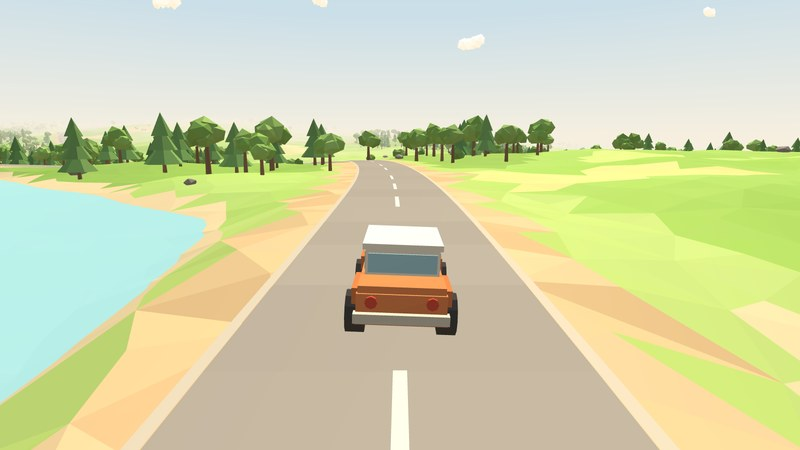
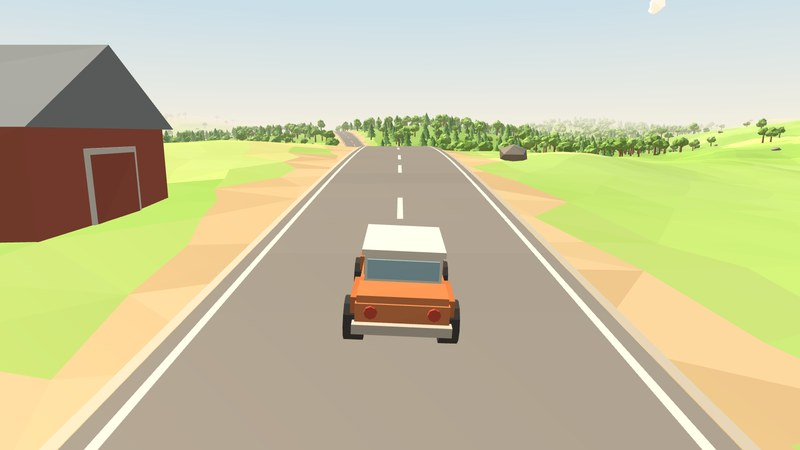
Driving sim: no lakes, smooth steering, gentle roads
- Lakes removed.
- Steering asks for a turn rate the car eases into (at most ~40 deg/s,
  less at speed), slower wheel and throttle response, top speed about
  108 km/h, softer chase camera.
- Roads are whole lattice lines with shared Catmull-Rom tangents at the
  junctions: no kinks, no dead-end corners; tightest bend about 150 m.

diff --git a/playground/drive.html b/playground/drive.html
@@ -52,7 +52,7 @@
   <button class="close" id="closePanel" aria-label="Close settings" title="Close (H)">✕</button>
   <a class="back" href="../index.html">← Home</a>
   <h1>Driving simulator</h1>
-  <p class="sub">An endless countryside, generated as you drive: rolling hills, fields, forests, villages and lakes, all grown from one random seed. The roads never end, and the same place always looks the same when you come back.</p>
+  <p class="sub">An endless countryside, generated as you drive: rolling hills, fields, forests and villages, all grown from one random seed. The roads never end, and the same place always looks the same when you come back.</p>
 
   <label>camera</label>
   <div class="row">
@@ -118,11 +118,11 @@ function hash(i, j, k) {
 function rng(a, b, c) { let s = (Math.floor(hash(a, b, c) * 4294967296) >>> 0) || 1; return () => { s = (s + 0x6d2b79f5) >>> 0; let t = s; t = Math.imul(t ^ (t >>> 15), t | 1); t ^= t + Math.imul(t ^ (t >>> 7), t | 61); return ((t ^ (t >>> 14)) >>> 0) / 4294967296; }; }
 
 // ===================================================================
-//  landscape: smooth hills the roads follow, lakes in the hollows, a little detail on top
+//  landscape: smooth hills the roads follow, a little detail on top (no lakes: Alain asked for dry land)
 // ===================================================================
 const fbm = (x, z) => N1(x, z) + 0.5 * N1(x * 2.03 + 17, z * 2.03 - 9) + 0.25 * N1(x * 4.1 - 31, z * 4.1 + 5);
 const hillH = (x, z) => 24 * fbm(x / 1100, z / 1100) + 6 * N1(x / 300 + 7.3, z / 300 - 2.1);   // what the roads ride on
-const lakeK = (x, z) => smooth(0.38, 0.7, N1(x / 760 + 41.7, z / 760 - 13.2));                    // 0 = dry, 1 = deep lake
+const lakeK = (x, z) => 0;   // lakes are switched off; everything that tests for water stays, and never finds any
 const forestK = (x, z) => N1(x / 420 - 70.1, z / 420 + 23.9) + 0.35 * N1(x / 90, z / 90);
 const detailH = (x, z) => 1.1 * N1(x / 38 + 3.1, z / 38 + 8.7);
 const roadSurf = (x, z) => hillH(x, z) + 0.35;
@@ -132,17 +132,22 @@ const rawH = (x, z) => hillH(x, z) - 11 * lakeK(x, z) + detailH(x, z) * (1 - lak
 // ===================================================================
 //  road network: a jittered lattice of junctions joined by gently curving roads
 // ===================================================================
-// Junction (i, j) sits near (i*S, j*S). Every fifth row and column is a wider main road that always exists;
-// the side roads in between exist with a fixed probability, and every road out of a village exists, so
-// the network is endless and connected in practice. Each road is a cubic Bezier sampled every ~5 m.
-const S = 330, JIT = 85;
-const isVillage = (i, j) => hash(i, j, 4) < 0.2;
+// Junction (i, j) sits near (i*S, j*S). A road is a whole row or column of the lattice: every fifth one is
+// a wider main road, and about half of the others exist too, all the way through, so a road never just
+// ends in a sharp corner. Each segment is a cubic Bezier whose end tangents are shared with its neighbours
+// (Catmull-Rom style), so a road runs through its junctions without a kink and only ever bends gently.
+const S = 330, JIT = 60;
+const rowRoad = (j) => j % 5 === 0 || hash(0, j, 10) < 0.45;   // an east-west road along row j
+const colRoad = (i) => i % 5 === 0 || hash(i, 0, 11) < 0.45;   // a north-south road along column i
+const isVillage = (i, j) => hash(i, j, 4) < 0.2 && (rowRoad(j) || colRoad(i));
 const node = (i, j) => [i * S + (hash(i, j, 1) - 0.5) * 2 * JIT, j * S + (hash(i, j, 2) - 0.5) * 2 * JIT];
 function edgeExists(i, j, dir) {           // dir 0: (i,j)->(i+1,j), dir 1: (i,j)->(i,j+1)
-  if (dir === 0 ? j % 5 === 0 : i % 5 === 0) return true;
-  const [ni, nj] = dir === 0 ? [i + 1, j] : [i, j + 1];
-  if (isVillage(i, j) || isVillage(ni, nj)) return true;
-  return hash(i, j, 10 + dir) < 0.66;
+  return dir === 0 ? rowRoad(j) : colRoad(i);
+}
+// the road's direction through junction (i, j): half the chord between its two neighbours
+function tangentAt(i, j, dir) {
+  const p = dir === 0 ? node(i - 1, j) : node(i, j - 1), q = dir === 0 ? node(i + 1, j) : node(i, j + 1);
+  return [(q[0] - p[0]) / 2, (q[1] - p[1]) / 2];
 }
 const isMain = (i, j, dir) => (dir === 0 ? j % 5 === 0 : i % 5 === 0);
 const edgeCache = new Map();
@@ -152,10 +157,9 @@ function getEdge(i, j, dir) {
   if (e !== undefined) return e;
   if (!edgeExists(i, j, dir)) { edgeCache.set(key, null); return null; }
   const a = node(i, j), b = dir === 0 ? node(i + 1, j) : node(i, j + 1);
-  const dx = b[0] - a[0], dz = b[1] - a[1], L = Math.hypot(dx, dz), ux = dx / L, uz = dz / L, px = -uz, pz = ux;
-  const main = isMain(i, j, dir), bend = main ? 35 : 70;
-  const b1 = (hash(i, j, 20 + dir) - 0.5) * 2 * bend, b2 = (hash(i, j, 22 + dir) - 0.5) * 2 * bend;
-  const c1 = [a[0] + ux * L / 3 + px * b1, a[1] + uz * L / 3 + pz * b1], c2 = [b[0] - ux * L / 3 + px * b2, b[1] - uz * L / 3 + pz * b2];
+  const L = Math.hypot(b[0] - a[0], b[1] - a[1]), main = isMain(i, j, dir);
+  const ta = tangentAt(i, j, dir), tb = dir === 0 ? tangentAt(i + 1, j, dir) : tangentAt(i, j + 1, dir);
+  const c1 = [a[0] + ta[0] / 3, a[1] + ta[1] / 3], c2 = [b[0] - tb[0] / 3, b[1] - tb[1] / 3];
   const n = Math.max(8, Math.ceil(L / 5)), pts = [];
   for (let k = 0; k <= n; k++) {
     const t = k / n, u = 1 - t;
@@ -621,7 +625,7 @@ const carMesh = (() => {
 
 // The whole car state in one small plain object, changed only in drive().
 // Multiplayer will later broadcast exactly this (Azure Web PubSub, or the Supabase project's realtime channels).
-const car = { x: 0, y: 0, z: 0, heading: 0, speed: 0, vx: 0, vz: 0, steer: 0, pitch: 0, roll: 0, onRoad: true, dist: 0 };
+const car = { x: 0, y: 0, z: 0, heading: 0, speed: 0, vx: 0, vz: 0, steer: 0, yaw: 0, pitch: 0, roll: 0, onRoad: true, dist: 0 };
 const input = { thr: 0, brk: 0, steer: 0, hb: false };
 
 function placeOnRoad(x, z) {
@@ -635,7 +639,7 @@ function placeOnRoad(x, z) {
   car.x = best.p[0]; car.z = best.p[1];
   let h = Math.atan2(best.q[0] - best.p[0], best.q[1] - best.p[1]);
   if (Math.cos(h - car.heading) < 0 && Math.abs(car.speed) > 1) h += Math.PI;   // keep roughly the way we were going
-  car.heading = h; car.speed = 0; car.vx = car.vz = 0; car.steer = 0;
+  car.heading = h; car.speed = 0; car.vx = car.vz = 0; car.steer = 0; car.yaw = 0;
   car.y = roadSurf(car.x, car.z);
 }
 function startPos() {
@@ -661,7 +665,7 @@ function drive(dt) {
   const fx = Math.sin(car.heading), fz = Math.cos(car.heading);
   let vf = car.vx * fx + car.vz * fz;
   const here = heightAt(car.x, car.z), onRoad = here.d < 0.4;
-  const vmax = onRoad ? 47 : 19, acc = onRoad ? 8 : 5.2;
+  const vmax = onRoad ? 30 : 13, acc = onRoad ? 5.2 : 3.8;   // about 108 km/h on the road
   const v0 = vf;
   if (input.thr > 0) { if (vf < -0.5) vf += 15 * input.thr * dt; else vf += acc * input.thr * Math.max(0, 1 - vf / vmax) * dt; }
   if (input.brk > 0) { if (vf > 0.5) vf -= 17 * input.brk * dt; else vf -= 4.5 * input.brk * Math.max(0, 1 + vf / 9) * dt; }
@@ -670,10 +674,13 @@ function drive(dt) {
   vf -= Math.sign(vf) * Math.min(Math.abs(vf), drag * dt);
   vf -= 9.81 * Math.sin(car.pitch) * dt;                       // hills pull you back, or along
   car.vx += fx * (vf - v0); car.vz += fz * (vf - v0);
-  // steering: less lock at speed, a bit more yaw on the handbrake
-  const lock = 0.62 / (1 + Math.abs(vf) / 13);
-  car.steer += (input.steer * lock - car.steer) * Math.min(1, dt * 7);
-  car.heading += (vf / 2.65) * Math.tan(car.steer) * (input.hb ? 1.5 : 1) * dt;
+  // steering: the wheel asks for a turn rate, never more than about 40 degrees a second, and less at speed
+  // (sideways pull capped near 0.65 g), and the car eases into it, so a turn rolls in instead of snapping
+  const vabs = Math.abs(vf), dirv = vf < 0 ? -1 : 1;
+  const maxYaw = Math.min(0.7, vabs / 5, 6.5 / Math.max(vabs, 1)) * (input.hb ? 1.5 : 1);
+  car.yaw += (input.steer * maxYaw * (vabs < 0.3 ? 0 : dirv) - car.yaw) * Math.min(1, dt * 2.6);
+  car.heading += car.yaw * dt;
+  car.steer = clamp(Math.atan((car.yaw * 2.65) / (dirv * Math.max(2, vabs))), -0.6, 0.6);   // front wheel angle, for show
   // grip: kill the sideways part of the velocity in the new heading (slowly on the handbrake, so it drifts)
   const gx = Math.sin(car.heading), gz = Math.cos(car.heading), rx = Math.cos(car.heading), rz = -Math.sin(car.heading);
   let f2 = car.vx * gx + car.vz * gz, l2 = car.vx * rx + car.vz * rz;
@@ -738,9 +745,9 @@ function placeCamera(dt, snap) {
     px = car.x - fx * 18; pz = car.z - fz * 18; py = car.y + 42;
     lx = car.x + fx * 6; ly = car.y; lz = car.z + fz * 6;
   }
-  const k = snap ? 1 : v === "chase" ? 1 - Math.exp(-dt * 5) : 1;
+  const k = snap ? 1 : v === "chase" ? 1 - Math.exp(-dt * 3.2) : 1;
   camPos.lerp(_p.set(px, py, pz), k);
-  camLook.lerp(_s.set(lx, ly, lz), snap ? 1 : 1 - Math.exp(-dt * 9));
+  camLook.lerp(_s.set(lx, ly, lz), snap ? 1 : 1 - Math.exp(-dt * 5));
   camera.position.copy(camPos); camera.lookAt(camLook);
 }
 function updateCarMesh(dt) {
@@ -791,10 +798,10 @@ function readInput(dt) {
   const up = keys.has("w") || keys.has("arrowup") || touch.gas, down = keys.has("s") || keys.has("arrowdown") || touch.brk;
   const left = keys.has("a") || keys.has("arrowleft") || touch.l, right = keys.has("d") || keys.has("arrowright") || touch.r;
   // throttle eases in so a tap is gentle; steering eases too, faster back to centre
-  input.thr += ((up ? 1 : 0) - input.thr) * Math.min(1, dt * 6);
+  input.thr += ((up ? 1 : 0) - input.thr) * Math.min(1, dt * 3);
   input.brk = down ? 1 : 0;
   const target = (left ? 1 : 0) - (right ? 1 : 0);
-  input.steer += (target - input.steer) * Math.min(1, dt * (target ? 5 : 9));
+  input.steer += (target - input.steer) * Math.min(1, dt * (target ? 2.2 : 3.2));
   input.hb = keys.has(" ") || touch.hb;
 }
 for (const [id, k] of [["tLeft", "l"], ["tRight", "r"], ["tGas", "gas"], ["tBrake", "brk"], ["tHb", "hb"]]) {

diff --git a/index.html b/index.html
@@ -160,7 +160,7 @@
       <ul class="entries playlist">
         <li><a class="thumb" href="playground/worm.html" tabindex="-1" aria-hidden="true"><img src="assets/thumbs/worm.jpg?v=20261124b" alt="" loading="lazy" width="800" height="450"></a><div><h3><a href="playground/worm.html"><i>C. elegans</i> connectome</a></h3><p>A worm brain simulator: the complete wiring diagram of the nematode <i>C. elegans</i>, 302 neurons and about 5,700 connections between them and the muscles, runs live in your browser and drives a virtual worm that “thinks” it's alive.</p></div></li>
         <li><a class="thumb" href="playground/flight.html" tabindex="-1" aria-hidden="true"><img src="assets/thumbs/flight.jpg" alt="" loading="lazy" width="800" height="450"></a><div><h3><a href="playground/flight.html">Flight simulator</a></h3><p>For some reason, Pilatus decided to build aircraft in the middle of the Swiss mountains. Fly them (and a helicopter) and get on the high-score board.</p></div></li>
-        <li><a class="thumb" href="playground/drive.html" tabindex="-1" aria-hidden="true"><img src="assets/thumbs/drive.jpg?v=20261125" alt="" loading="lazy" width="800" height="450"></a><div><h3><a href="playground/drive.html">Driving simulator</a></h3><p>A little car and an endless, procedurally generated countryside of hills, fields, forests, lakes and villages, with roads that never run out. The same seed always grows the same world, so the places you find are still there when you come back.</p></div></li>
+        <li><a class="thumb" href="playground/drive.html" tabindex="-1" aria-hidden="true"><img src="assets/thumbs/drive.jpg?v=20261125b" alt="" loading="lazy" width="800" height="450"></a><div><h3><a href="playground/drive.html">Driving simulator</a></h3><p>A little car and an endless, procedurally generated countryside of hills, fields, forests and villages, with gentle roads that never run out. The same seed always grows the same world, so the places you find are still there when you come back.</p></div></li>
         <li><a class="thumb" href="playground/julia.html" tabindex="-1" aria-hidden="true"><canvas data-preview="julia"></canvas></a><div><h3><a href="playground/julia.html">Julia set of the day</a></h3><p>A different Julia set every day. Zoom around, or dive in forever.</p></div></li>
         <li><a class="thumb" href="playground/stereogram.html" tabindex="-1" aria-hidden="true"><img src="assets/thumbs/stereogram.jpg" alt="" loading="lazy" width="800" height="450"></a><div><h3><a href="playground/stereogram.html">Stereogram generator</a></h3><p>Turn an image, some text or today's Julia set into a magic-eye picture.</p></div></li>
         <li><a class="thumb" href="playground/toolbox.html" tabindex="-1" aria-hidden="true"><img src="assets/thumbs/toolbox.jpg" alt="" loading="lazy" width="800" height="450"></a><div><h3><a href="playground/toolbox.html">Quantum device toolbox</a></h3><p>Useful calculators for superconducting quantum device work.</p></div></li>
@@ -192,7 +192,7 @@
       <a class="tile" href="playground/flight.html"><img src="assets/thumbs/flight.jpg" alt="A PC-24 flying over low-poly mountains" loading="lazy" width="800" height="450"><span class="t"><b>Flight simulator</b><span>Fly Pilatus aircraft through procedurally generated mountains and beat the high scores.</span></span></a>
       <a class="tile" href="playground/worm.html"><img src="assets/thumbs/worm.jpg?v=20261124b" alt="The worm brain simulator: a worm in its arena next to the connectivity matrix" loading="lazy" width="800" height="450"><span class="t"><b><i>C. elegans</i> connectome</b><span>302 real neurons simulating a worm brain in your browser.</span></span></a>
       <a class="tile" href="#menagerie"><span class="trio" aria-hidden="true"><img src="assets/thumbs/aquarium.jpg" alt="" loading="lazy" width="800" height="450"><img src="assets/thumbs/chickens.jpg" alt="" loading="lazy" width="800" height="450"><img src="assets/thumbs/cats.jpg" alt="" loading="lazy" width="800" height="450"></span><span class="t"><b>The Menagerie</b><span>All my childhood pets, living together in software.</span></span></a>
-      <a class="tile" href="playground/drive.html"><img src="assets/thumbs/drive.jpg?v=20261125" alt="A little low-poly car on a country road beside a lake" loading="lazy" width="800" height="450"><span class="t"><b>Driving simulator</b><span>An endless countryside that builds itself as you drive.</span></span></a>
+      <a class="tile" href="playground/drive.html"><img src="assets/thumbs/drive.jpg?v=20261125b" alt="A little low-poly car on a quiet country road past a red barn" loading="lazy" width="800" height="450"><span class="t"><b>Driving simulator</b><span>An endless countryside that builds itself as you drive.</span></span></a>
       <a class="tile" href="playground/corner.html"><img src="assets/thumbs/corner.jpg?v=20261125" alt="A yellow slime-mould network linking oat flakes" loading="lazy" width="800" height="450"><span class="t"><b>Claude's corner</b><span>Claude's own pick. For now: a slime mould wiring oat flakes into a network.</span></span></a>
       <a class="tile" href="playground/julia.html"><canvas data-preview="julia" aria-hidden="true"></canvas><span class="t"><b>Julia set of the day</b><span>A new fractal every day.</span></span></a>
       <a class="tile" href="playground/stereogram.html"><img src="assets/thumbs/stereogram.jpg" alt="A stereogram with a hidden logo" loading="lazy" width="800" height="450"><span class="t"><b>Stereogram generator</b><span>Hide your logo, some text or today's Julia set in a magic-eye picture.</span></span></a>
